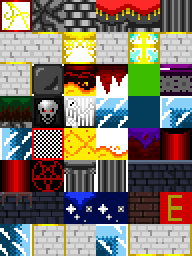
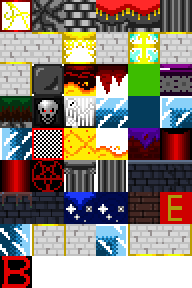
New changes to Tiles as well as new map!

diff --git a/Tiled/Tilesets/Anim Tiles/Haunted Prison Floor.tsx b/Tiled/Tilesets/Anim Tiles/Haunted Prison Floor.tsx
@@ -1,0 +1,25 @@
+<?xml version="1.0" encoding="UTF-8"?>
+<tileset version="1.9" tiledversion="1.9.2" name="Haunted Prison Floor" tilewidth="32" tileheight="32" tilecount="14" columns="14">
+ <image source="../../../TilePallete/anim tiles/Haunted Prison Floor.png" width="448" height="32"/>
+ <tile id="0">
+  <objectgroup draworder="index" id="2">
+   <object id="1" x="0" y="0" width="32" height="32"/>
+  </objectgroup>
+  <animation>
+   <frame tileid="0" duration="100"/>
+   <frame tileid="1" duration="100"/>
+   <frame tileid="2" duration="100"/>
+   <frame tileid="3" duration="100"/>
+   <frame tileid="4" duration="100"/>
+   <frame tileid="5" duration="100"/>
+   <frame tileid="6" duration="100"/>
+   <frame tileid="7" duration="100"/>
+   <frame tileid="8" duration="100"/>
+   <frame tileid="9" duration="100"/>
+   <frame tileid="10" duration="100"/>
+   <frame tileid="11" duration="100"/>
+   <frame tileid="12" duration="100"/>
+   <frame tileid="13" duration="100"/>
+  </animation>
+ </tile>
+</tileset>

diff --git a/Tiled/Tilesets/Anim Tiles/Master's Chambers Sigil Pillar Cont.tsx b/Tiled/Tilesets/Anim Tiles/Master's Chambers Sigil Pillar Cont.tsx
@@ -1,0 +1,23 @@
+<?xml version="1.0" encoding="UTF-8"?>
+<tileset version="1.9" tiledversion="1.9.2" name="Master's Chambers Sigil Pillar Cont" tilewidth="32" tileheight="32" tilecount="12" columns="12">
+ <image source="../../../TilePallete/anim tiles/Master's Chambers Sigil Pillar Cont.png" width="384" height="32"/>
+ <tile id="0">
+  <objectgroup draworder="index" id="2">
+   <object id="1" x="0" y="0" width="32" height="32"/>
+  </objectgroup>
+  <animation>
+   <frame tileid="0" duration="100"/>
+   <frame tileid="1" duration="100"/>
+   <frame tileid="2" duration="100"/>
+   <frame tileid="3" duration="100"/>
+   <frame tileid="4" duration="100"/>
+   <frame tileid="5" duration="100"/>
+   <frame tileid="6" duration="100"/>
+   <frame tileid="7" duration="100"/>
+   <frame tileid="8" duration="100"/>
+   <frame tileid="9" duration="100"/>
+   <frame tileid="10" duration="100"/>
+   <frame tileid="11" duration="100"/>
+  </animation>
+ </tile>
+</tileset>

diff --git a/Tiled/Tilesets/Anim Tiles/Ghost Train Floor.tsx b/Tiled/Tilesets/Anim Tiles/Ghost Train Floor.tsx
@@ -1,0 +1,23 @@
+<?xml version="1.0" encoding="UTF-8"?>
+<tileset version="1.9" tiledversion="1.9.2" name="Ghost Train Floor" tilewidth="32" tileheight="32" tilecount="12" columns="12">
+ <image source="../../../TilePallete/anim tiles/Ghost Train Floor.png" width="384" height="32"/>
+ <tile id="0">
+  <objectgroup draworder="index" id="2">
+   <object id="1" x="0" y="0" width="32" height="32"/>
+  </objectgroup>
+  <animation>
+   <frame tileid="0" duration="100"/>
+   <frame tileid="1" duration="100"/>
+   <frame tileid="2" duration="100"/>
+   <frame tileid="3" duration="100"/>
+   <frame tileid="4" duration="100"/>
+   <frame tileid="5" duration="100"/>
+   <frame tileid="6" duration="100"/>
+   <frame tileid="7" duration="100"/>
+   <frame tileid="8" duration="100"/>
+   <frame tileid="9" duration="100"/>
+   <frame tileid="10" duration="100"/>
+   <frame tileid="11" duration="100"/>
+  </animation>
+ </tile>
+</tileset>

diff --git a/Tiled/Tilesets/Anim Tiles/Master Chambers Sigil Support.tsx b/Tiled/Tilesets/Anim Tiles/Master Chambers Sigil Support.tsx
@@ -1,0 +1,19 @@
+<?xml version="1.0" encoding="UTF-8"?>
+<tileset version="1.9" tiledversion="1.9.2" name="Master Chambers Sigil Support" tilewidth="32" tileheight="32" tilecount="8" columns="8">
+ <image source="../../../TilePallete/anim tiles/Master Chambers Sigil Support.png" width="256" height="32"/>
+ <tile id="0">
+  <objectgroup draworder="index" id="2">
+   <object id="1" x="0" y="0" width="32" height="32"/>
+  </objectgroup>
+  <animation>
+   <frame tileid="0" duration="100"/>
+   <frame tileid="1" duration="100"/>
+   <frame tileid="2" duration="100"/>
+   <frame tileid="3" duration="100"/>
+   <frame tileid="4" duration="100"/>
+   <frame tileid="5" duration="100"/>
+   <frame tileid="6" duration="100"/>
+   <frame tileid="7" duration="100"/>
+  </animation>
+ </tile>
+</tileset>

diff --git a/Tiled/Tilesets/Anim Tiles/Drake Support.tsx b/Tiled/Tilesets/Anim Tiles/Drake Support.tsx
@@ -1,0 +1,19 @@
+<?xml version="1.0" encoding="UTF-8"?>
+<tileset version="1.9" tiledversion="1.9.2" name="Drake Support (32)" tilewidth="32" tileheight="32" tilecount="8" columns="8">
+ <image source="../../../TilePallete/anim tiles/Drake Support (32).png" width="256" height="32"/>
+ <tile id="0">
+  <objectgroup draworder="index" id="2">
+   <object id="1" x="0" y="0" width="32" height="32"/>
+  </objectgroup>
+  <animation>
+   <frame tileid="0" duration="100"/>
+   <frame tileid="1" duration="100"/>
+   <frame tileid="2" duration="100"/>
+   <frame tileid="3" duration="100"/>
+   <frame tileid="4" duration="100"/>
+   <frame tileid="5" duration="100"/>
+   <frame tileid="6" duration="100"/>
+   <frame tileid="7" duration="100"/>
+  </animation>
+ </tile>
+</tileset>

diff --git a/Tiled/Tilesets/Anim Tiles/Magma Cieling.tsx b/Tiled/Tilesets/Anim Tiles/Magma Cieling.tsx
@@ -1,0 +1,19 @@
+<?xml version="1.0" encoding="UTF-8"?>
+<tileset version="1.9" tiledversion="1.9.2" name="Magma Cieling" tilewidth="32" tileheight="32" tilecount="8" columns="8">
+ <image source="../../../TilePallete/anim tiles/Magma Cieling.png" width="256" height="32"/>
+ <tile id="0">
+  <objectgroup draworder="index" id="2">
+   <object id="1" x="0" y="0" width="32" height="32"/>
+  </objectgroup>
+  <animation>
+   <frame tileid="0" duration="100"/>
+   <frame tileid="1" duration="100"/>
+   <frame tileid="2" duration="100"/>
+   <frame tileid="3" duration="100"/>
+   <frame tileid="4" duration="100"/>
+   <frame tileid="5" duration="100"/>
+   <frame tileid="6" duration="100"/>
+   <frame tileid="7" duration="100"/>
+  </animation>
+ </tile>
+</tileset>

diff --git a/Tiled/Tilesets/Anim Tiles/Wonder Block Support.tsx b/Tiled/Tilesets/Anim Tiles/Wonder Block Support.tsx
@@ -1,0 +1,15 @@
+<?xml version="1.0" encoding="UTF-8"?>
+<tileset version="1.9" tiledversion="1.9.2" name="Wonder Block Support" tilewidth="32" tileheight="32" tilecount="4" columns="4">
+ <image source="../../../TilePallete/anim tiles/Wonder Block Support.png" width="128" height="32"/>
+ <tile id="0">
+  <objectgroup draworder="index" id="2">
+   <object id="1" x="0" y="0" width="32" height="32"/>
+  </objectgroup>
+  <animation>
+   <frame tileid="0" duration="100"/>
+   <frame tileid="1" duration="100"/>
+   <frame tileid="2" duration="100"/>
+   <frame tileid="3" duration="100"/>
+  </animation>
+ </tile>
+</tileset>

diff --git a/Tiled/Tilesets/Anim Tiles/staticTiles.tsx b/Tiled/Tilesets/Anim Tiles/staticTiles.tsx
@@ -1,0 +1,15 @@
+<?xml version="1.0" encoding="UTF-8"?>
+<tileset version="1.9" tiledversion="1.9.2" name="Wonder Block Floor" tilewidth="32" tileheight="32" tilecount="4" columns="4">
+ <image source="../../../TilePallete/anim tiles/Wonder Block Floor.png" width="128" height="32"/>
+ <tile id="0">
+  <objectgroup draworder="index" id="2">
+   <object id="1" x="0" y="0" width="32" height="32"/>
+  </objectgroup>
+  <animation>
+   <frame tileid="0" duration="100"/>
+   <frame tileid="1" duration="100"/>
+   <frame tileid="2" duration="100"/>
+   <frame tileid="3" duration="100"/>
+  </animation>
+ </tile>
+</tileset>

diff --git a/Tiled/Tilesets/Anim Tiles/Master's Chambers Sigil Pillar.tsx b/Tiled/Tilesets/Anim Tiles/Master's Chambers Sigil Pillar.tsx
@@ -1,0 +1,4 @@
+<?xml version="1.0" encoding="UTF-8"?>
+<tileset version="1.9" tiledversion="1.9.2" name="Master's Chambers Sigil Pillar" tilewidth="32" tileheight="32" tilecount="12" columns="12">
+ <image source="../../../TilePallete/anim tiles/Master's Chambers Sigil Pillar.png" width="384" height="32"/>
+</tileset>

diff --git a/Tiled/Tilesets/Anim Tiles/Wonder Block.tsx b/Tiled/Tilesets/Anim Tiles/Wonder Block.tsx
@@ -1,0 +1,4 @@
+<?xml version="1.0" encoding="UTF-8"?>
+<tileset version="1.9" tiledversion="1.9.2" name="Wonder Block Floor" tilewidth="32" tileheight="32" tilecount="4" columns="4">
+ <image source="../../../TilePallete/anim tiles/Wonder Block Floor.png" width="128" height="32"/>
+</tileset>
